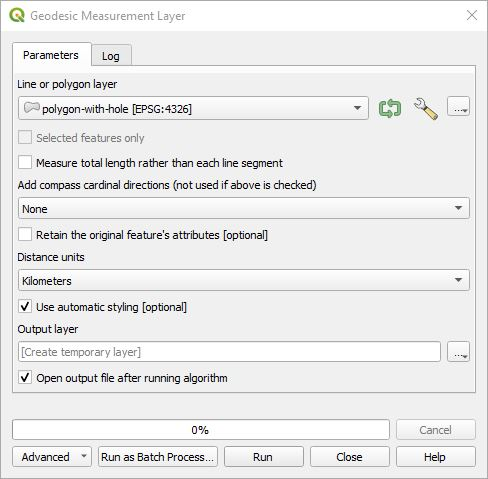
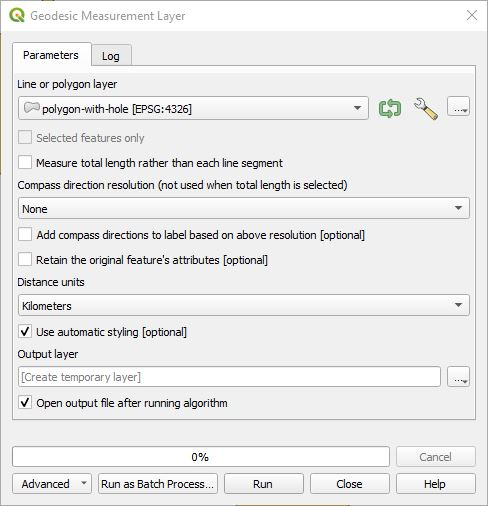
update documentation

diff --git a/readme.md b/readme.md
@@ -273,7 +273,7 @@ By clicking on the ***Add measurement point*** icon ![Add measurement point](ima
 
 ## <a name="geodesic-measure-layer"></a> ![Geodesic Measurement Layer](images/linedigitize.svg) Geodesic Measurement Layer
 
-This take either a polygon or line layer and for each of the geometries calculates the geodesic distances of each feature. The user can choose whether each line segment is measured and output as a line measurement or whether the entire line/polygon geometry is measured. It outputs a new line layer of lines that contain attributes with all the measurements. If measuring individual line segments the attributes are a label, distance, units of measure, azimuth/bearing to the next point, and the total distance of the geometry. If measuring the entire geometry then the attributes are a label, distance, and units of measure. The input is either a line or polygon layer. Select whether you want to measure the entire line or polygon or each line segment within the line or polygon. **Add compass cardinal directions** will add compass cardinal directions if it is not set to **None** and you are measuring the individaul line segments. **Distance units** can be kilometers, meters, centimeters, miles, yards, feet, inches, or nautical miles. **Use automatic styling** styles the QGIS layer with the label string in the attribute table and with the text and line colors found in **Settings**. Select the checkbox for **Retain the original feature's attributes** if you want the original attributes included in the output layer; otherewise, only the calculated measurements will be included.
+This takes a polygon or line layer and measures the geodesic distances of each line segment in the lines or polygons or the total distance of all line segments in the shape's geometry. The user can choose whether each line segment is measured or the entire line/polygon geometry is measured. It creates a new line layer of line segments that contain attributes of all the measurements. If **Measure total length rather than each line segment** is checked, only the total distance is reported and the attributes are: label, distance, and units of measure. If measuring individual line segments, the attributes are: label, distance, units of measure, azimuth/bearing to the next point, and total distance of the geometry. If **Compass direction resolution** is not ***None***, then the following attributes are added: compass abbreviated cardinal direction, compass name, and compass traditional name. If the total length check box is unchecked and a value other than ***None*** is selected for **Compass direction resolution** and **Add compass directions to label based on above resolution** is checked, compass cardinal directions are added to the ***label*** attribute. **Distance units** can be kilometers, meters, centimeters, miles, yards, feet, inches, or nautical miles. **Use automatic styling** styles the QGIS layer with the label string in the attribute table and with the text and line colors found in **Settings**. Select the checkbox for **Retain the original feature's attributes** if you want the original attributes included in the output layer; otherewise, only the calculated measurements will be included.
 
 <div style="text-align:center"><img src="doc/measurement-layer.jpg" alt="Geodesic Measurement Layer"></div>
 
@@ -285,7 +285,7 @@ Here is what the attributes table looks like.
 
 <div style="text-align:center"><img src="doc/measurement-attributes.jpg" alt="Measurement Attributes"></div>
 
-If **Add compass cardinal directions** is not **None** and **Measure total length rather than each line segment** is not checked then additional compass cardinal direction atttibutes will be added. Here is what the attributes table looks like with **Add compass cardinal directions** is set to **16 point**.
+If **Compass direction resolution** is not **None** and **Measure total length rather than each line segment** is not checked, then additional compass cardinal direction atttibutes will be added. Here is what the attributes table looks like with **Compass direction resolution** is set to **16 point**.
 
 <div style="text-align:center"><img src="doc/measurement-attributes2.jpg" alt="Measurement Attributes"></div>
 
